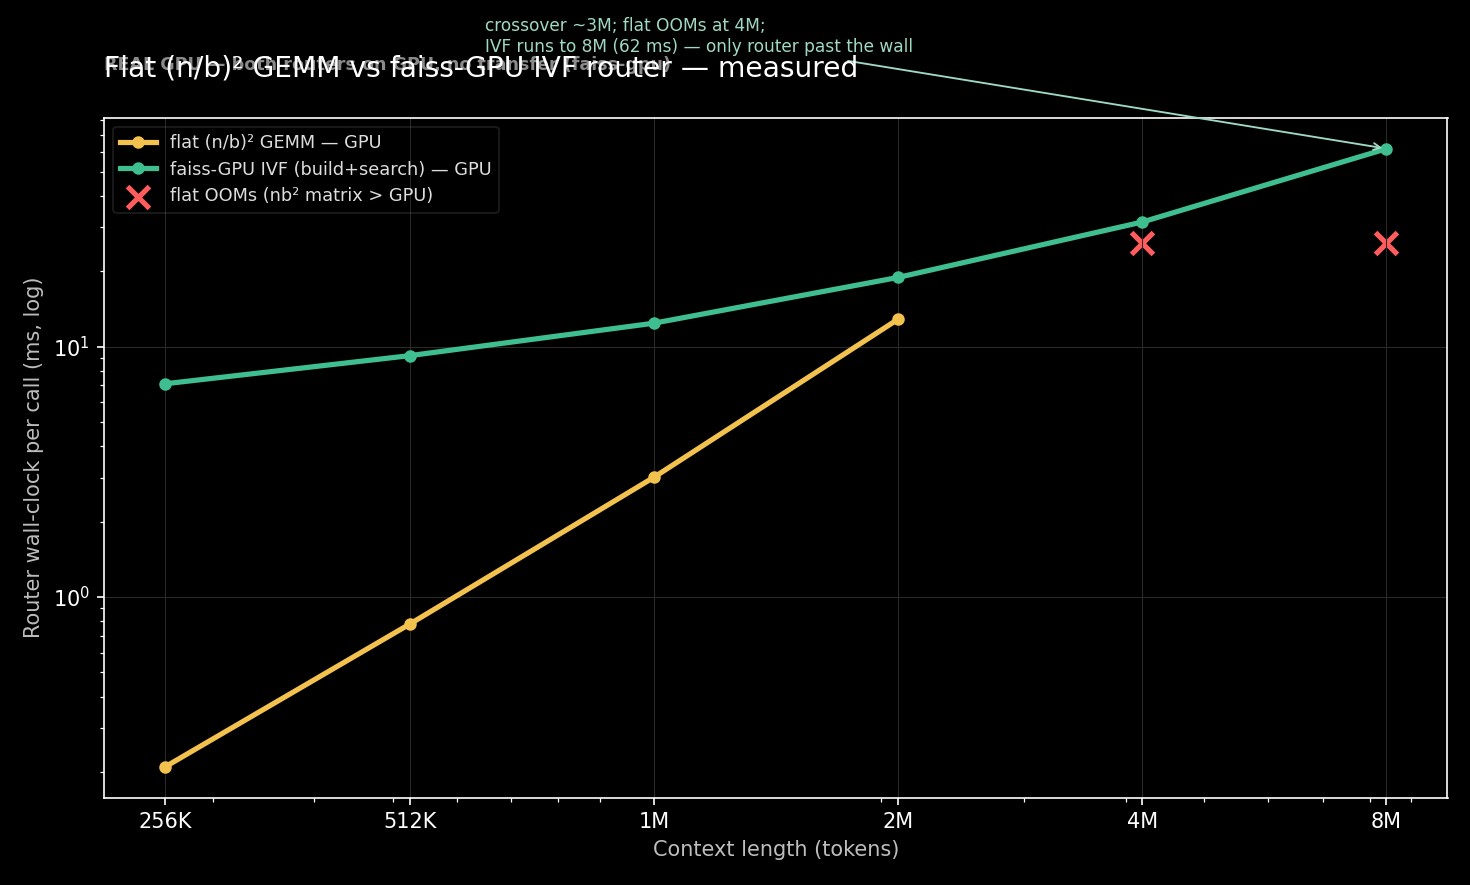
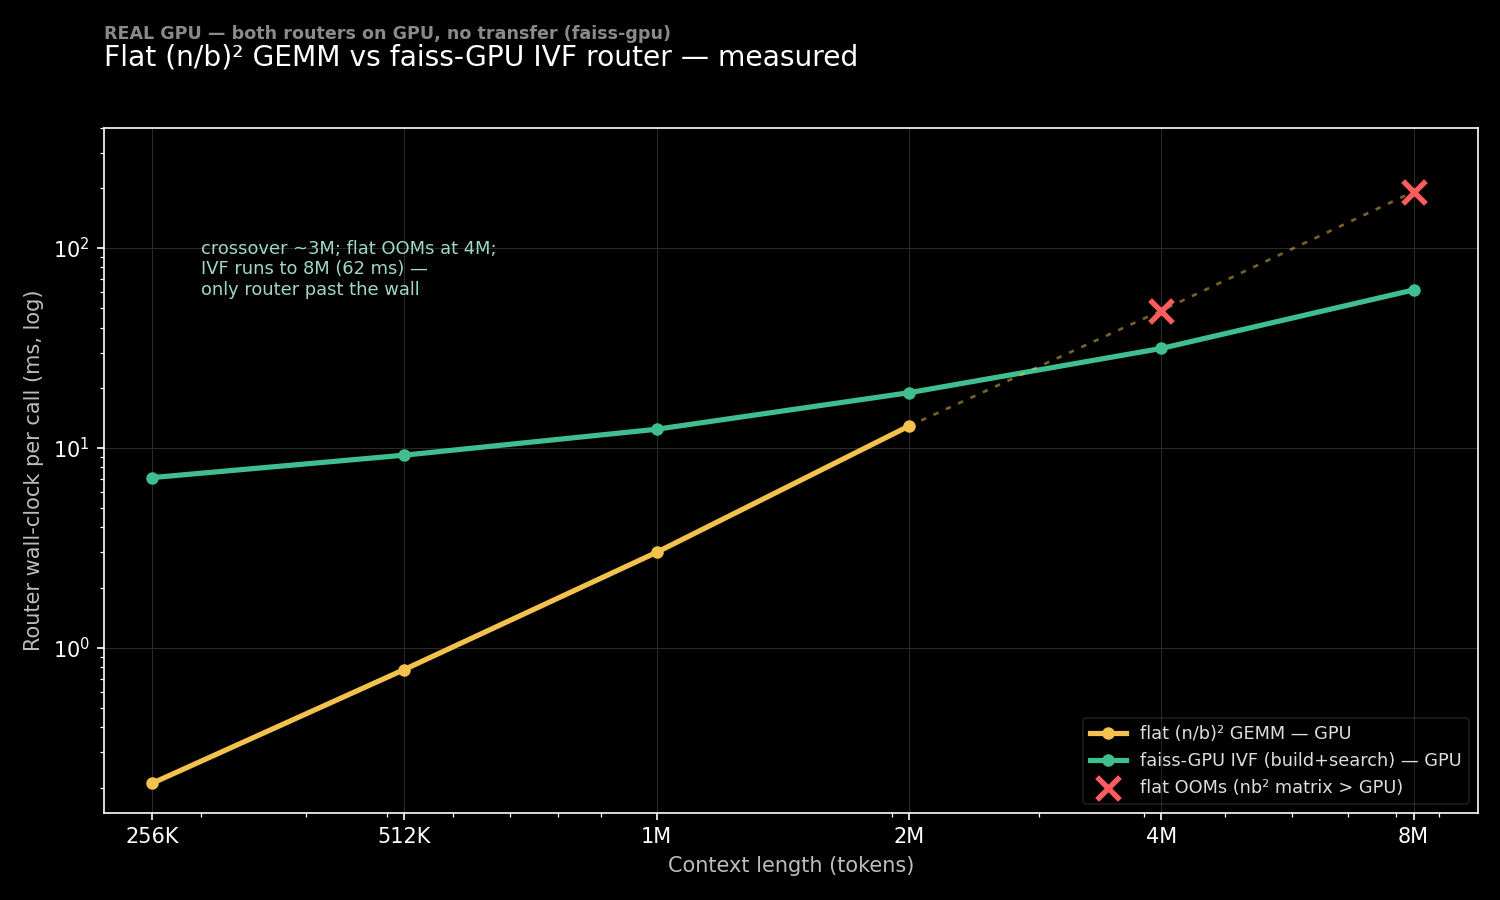
fix(fig): clean router_gpu_compare.png layout + make it reproducible
The figure was generated inline (no script) and had the title/subtitle and the annotation arrow all
overlapping. Added plot_from_json() to router_gpu_compare.py (python -m ssa.router_gpu_compare plot,
reads the saved JSON, no GPU re-run): subtitle above the title, the annotation in the empty upper-left
(no crossing arrow), legend lower-right, and the flat router shown as a faint dashed extrapolation with
red ✗ marks where its nb² matrix OOMs — making the ~3M crossover visible (flat would be slower AND dead).

diff --git a/ssa/router_gpu_compare.py b/ssa/router_gpu_compare.py
@@ -79,5 +79,52 @@ def main():
     print("  memory and op-count. wrote paper/figures/router_gpu_compare.json")
 
 
+def plot_from_json(path="paper/figures/router_gpu_compare.json"):
+    import json
+    import numpy as np
+    import matplotlib
+    matplotlib.use("Agg")
+    import matplotlib.pyplot as plt
+    rows = json.load(open(path))
+    n = np.array([r["n"] for r in rows], float)
+    flat = np.array([r["flat_ms"] if r["flat_ms"] else np.nan for r in rows])
+    ivf = np.array([r["ivf_ms"] for r in rows])
+    fm = ~np.isnan(flat)
+
+    plt.style.use("dark_background")
+    fig, ax = plt.subplots(figsize=(10.0, 6.0))
+    fig.patch.set_facecolor("#000"); ax.set_facecolor("#000")
+    ax.set_xscale("log"); ax.set_yscale("log")
+    ax.plot(n[fm], flat[fm], color="#f2c14e", lw=2.5, marker="o", ms=5, label="flat (n/b)² GEMM — GPU")
+    ax.plot(n, ivf, color="#3fbf90", lw=2.5, marker="o", ms=5, label="faiss-GPU IVF (build+search) — GPU")
+    # where flat OOMs: extrapolate its measured trend and mark it dead (× on a faint dashed continuation)
+    oom = n[~fm]
+    if len(oom):
+        pf = np.polyfit(np.log(n[fm]), np.log(flat[fm]), 1)
+        flat_ext = np.exp(pf[1]) * oom ** pf[0]
+        ax.plot(np.concatenate([[n[fm][-1]], oom]), np.concatenate([[flat[fm][-1]], flat_ext]),
+                color="#f2c14e", lw=1.3, ls=(0, (2, 3)), alpha=0.5)
+        ax.scatter(oom, flat_ext, marker="x", s=120, linewidths=2.6, color="#ff5d5d",
+                   label="flat OOMs (nb² matrix > GPU)", zorder=6)
+
+    ax.text(3.0e5, 1.1e2, "crossover ~3M; flat OOMs at 4M;\nIVF runs to 8M (62 ms) —\nonly router past the wall",
+            color="#9fd9c4", fontsize=8.6, ha="left", va="top")
+    ax.set_xticks([262144, 524288, 1048576, 2097152, 4194304, 8388608])
+    ax.set_xticklabels(["256K", "512K", "1M", "2M", "4M", "8M"])
+    ax.set_xlim(2.3e5, 1.0e7); ax.set_ylim(0.15, 4e2)
+    ax.set_xlabel("Context length (tokens)", color="#bdbdbd")
+    ax.set_ylabel("Router wall-clock per call (ms, log)", color="#bdbdbd")
+    ax.text(0.0, 1.13, "REAL GPU — both routers on GPU, no transfer (faiss-gpu)",
+            transform=ax.transAxes, color="#8a8a8a", fontsize=8.4, fontweight="bold")
+    ax.set_title("Flat (n/b)² GEMM vs faiss-GPU IVF router — measured", color="white",
+                 fontsize=13.5, loc="left", pad=30)
+    ax.grid(True, which="major", color="#2a2a2a", lw=0.5)
+    ax.legend(loc="lower right", fontsize=8.5, framealpha=0.12, labelcolor="#ddd")
+    fig.tight_layout()
+    fig.savefig("paper/figures/router_gpu_compare.png", dpi=150, facecolor=fig.get_facecolor())
+    print("wrote paper/figures/router_gpu_compare.png")
+
+
 if __name__ == "__main__":
-    main()
+    import sys
+    plot_from_json() if "plot" in sys.argv else main()